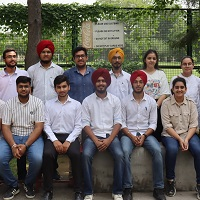
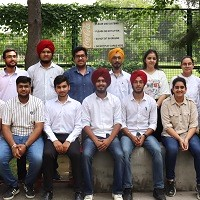
Minor optimization

diff --git a/About/index.html b/About/index.html
@@ -158,7 +158,7 @@
 
       <div class="row">
         <div class="col-12 mb-4 mt-5">
-          <h2 class="section-title">CML Team Members</h2>
+          <h2 class="section-title">CML Team</h2>
         </div>
 
 
@@ -365,7 +365,7 @@
                               <form  action="https://formspree.io/f/mvollevw" method="POST" id="subscribe_form">
                                 <div class="form-row">
                                     <div class="col dk-footer-form">
-                                        <input type="email" name="email" class="form-control f-subscribe" placeholder="Email Address" required>
+                                        <input type="email" name="email" class="form-control f-subscribe" placeholder="Email Address" pattern="[a-z0-9._%+-]+@[a-z0-9.-]+\.[a-z]{2,}$" required>
                                         <button type="submit">
                                             <i class="fa fa-send"></i>
                                         </button>

diff --git a/index.html b/index.html
@@ -428,7 +428,7 @@
                                 <form  action="https://formspree.io/f/mvollevw" method="POST" id="subscribe_form">
                                     <div class="form-row">
                                         <div class="col dk-footer-form">
-                                            <input type="email" name="email" class="form-control f-subscribe" placeholder="Email Address" required>
+                                            <input type="email" name="email" class="form-control f-subscribe" placeholder="Email Address" pattern="[a-z0-9._%+-]+@[a-z0-9.-]+\.[a-z]{2,}$" required>
                                             <button type="submit">
                                                 <i class="fa fa-send"></i>
                                             </button>

diff --git a/About/Developers/index.html b/About/Developers/index.html
@@ -358,7 +358,7 @@
                               <form  action="https://formspree.io/f/mvollevw" method="POST" id="subscribe_form">
                                 <div class="form-row">
                                     <div class="col dk-footer-form">
-                                        <input type="email" name="email" class="form-control f-subscribe" placeholder="Email Address" required>
+                                        <input type="email" name="email" class="form-control f-subscribe" placeholder="Email Address" pattern="[a-z0-9._%+-]+@[a-z0-9.-]+\.[a-z]{2,}$" required>
                                         <button type="submit">
                                             <i class="fa fa-send"></i>
                                         </button>

diff --git a/About/Faculty/index.html b/About/Faculty/index.html
@@ -612,7 +612,7 @@
                               <form  action="https://formspree.io/f/mvollevw" method="POST" id="subscribe_form">
                                 <div class="form-row">
                                     <div class="col dk-footer-form">
-                                        <input type="email" name="email" class="form-control f-subscribe" placeholder="Email Address" required>
+                                        <input type="email" name="email" class="form-control f-subscribe" placeholder="Email Address" pattern="[a-z0-9._%+-]+@[a-z0-9.-]+\.[a-z]{2,}$" required>
                                         <button type="submit">
                                             <i class="fa fa-send"></i>
                                         </button>

diff --git a/About/Members/index.html b/About/Members/index.html
@@ -847,7 +847,7 @@
                               <form  action="https://formspree.io/f/mvollevw" method="POST" id="subscribe_form">
                                 <div class="form-row">
                                     <div class="col dk-footer-form">
-                                        <input type="email" name="email" class="form-control f-subscribe" placeholder="Email Address" required>
+                                        <input type="email" name="email" class="form-control f-subscribe" placeholder="Email Address" pattern="[a-z0-9._%+-]+@[a-z0-9.-]+\.[a-z]{2,}$" required>
                                         <button type="submit">
                                             <i class="fa fa-send"></i>
                                         </button>

diff --git a/Contact/index.html b/Contact/index.html
@@ -347,7 +347,7 @@
                               <form  action="https://formspree.io/f/mvollevw" method="POST" id="subscribe_form">
                                 <div class="form-row">
                                     <div class="col dk-footer-form">
-                                        <input type="email" name="email" class="form-control f-subscribe" placeholder="Email Address" required>
+                                        <input type="email" name="email" class="form-control f-subscribe" placeholder="Email Address" pattern="[a-z0-9._%+-]+@[a-z0-9.-]+\.[a-z]{2,}$" required>
                                         <button type="submit">
                                             <i class="fa fa-send"></i>
                                         </button>

diff --git a/Events/index.html b/Events/index.html
@@ -864,7 +864,7 @@
                               <form  action="https://formspree.io/f/mvollevw" method="POST" id="subscribe_form">
                                 <div class="form-row">
                                     <div class="col dk-footer-form">
-                                        <input type="email" name="email" class="form-control f-subscribe" placeholder="Email Address" required>
+                                        <input type="email" name="email" class="form-control f-subscribe" placeholder="Email Address" pattern="[a-z0-9._%+-]+@[a-z0-9.-]+\.[a-z]{2,}$" required>
                                         <button type="submit">
                                             <i class="fa fa-send"></i>
                                         </button>
